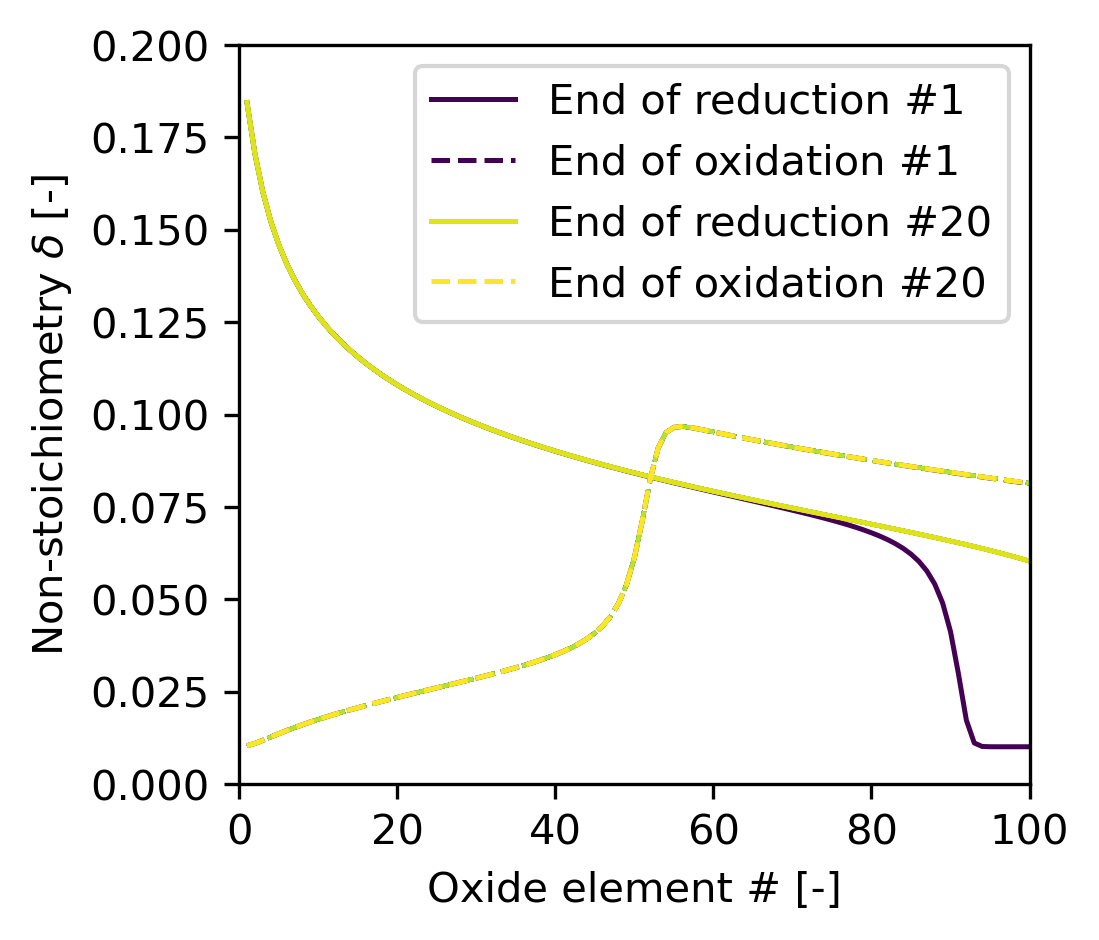
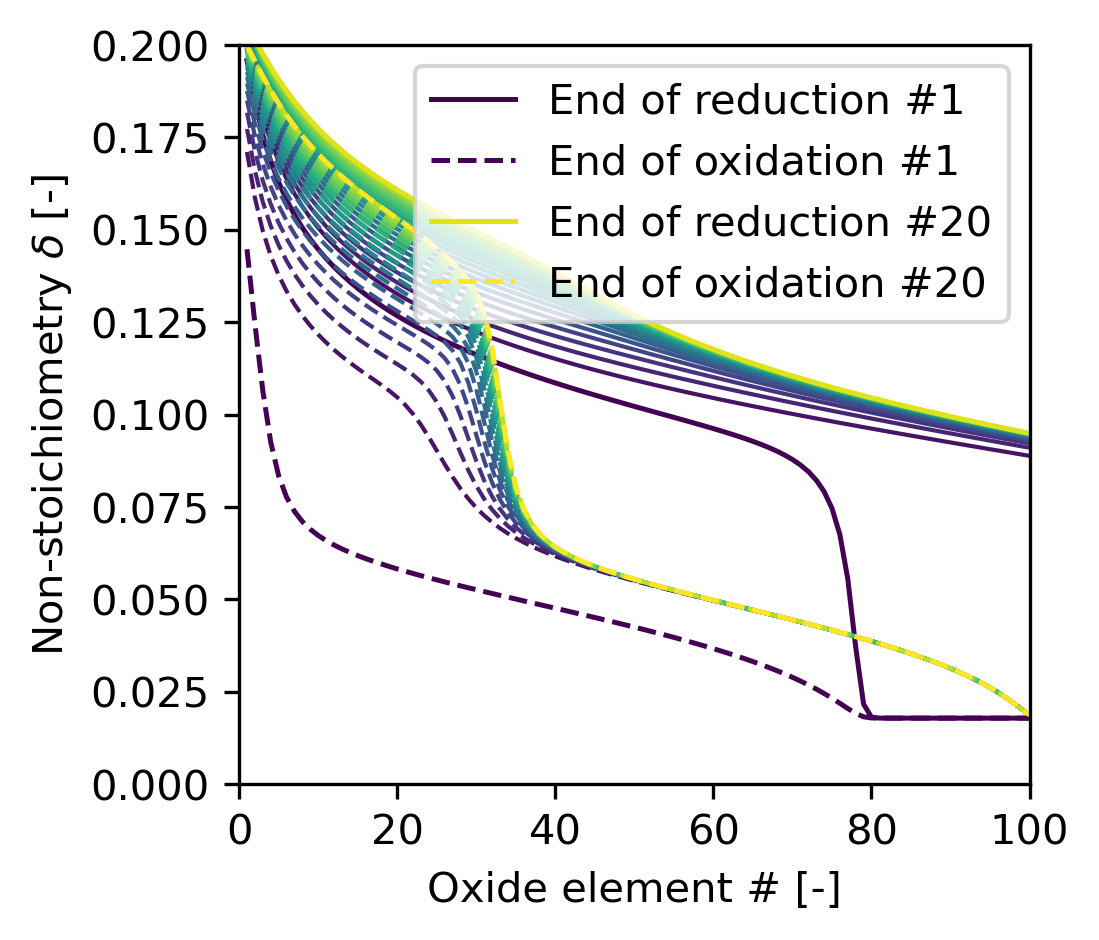
01/11/26

diff --git a/model_testing/mass_balance_test.py b/model_testing/mass_balance_test.py
@@ -18,13 +18,13 @@ from functions.mass_balance import calculate_mass_balance
 from functions.main import simulate_cycle
 
 """
-This script runs a countercurrent chemical looping model to estimate thermodynamic limits.
+This script runs an alternating countercurrent chemical looping model to estimate thermodynamic limits.
 It simulates multiple redox cycles and visualizes the evolution of non-stoichiometry (delta),
 reactor conversions, and oxygen mass balances.
 """
 
 # === Set material from options - "CeO2", "CeZr05", "CeZr15", "CeZr20", "LSF"
-material = "CeZr15"
+material = "CeZr20"
 
 # === Define process conditions
 T = 1023  # Temperature in Kelvin
@@ -35,8 +35,7 @@ cycles = 20  # Number of redox cycles
 x_CO2_0 = 0.998  # Initial CO2 mole fraction
 x_H2O_0 = 0.005  # Initial H2O mole fraction
 gas_mesh, oxide_mesh = 100, 100 # Discretization
-left_flow_red=False
-left_flow_ox=True
+flow_sequence = ((False, True), (True, False))
 
 # === Initialize storage for plotting variables
 delta_red_end = []
@@ -54,6 +53,7 @@ first_cycle = True
 # === Run simulation for defined number of cycles
 for cycle in range(cycles):
     tic = time.perf_counter()
+    left_flow_red, left_flow_ox = flow_sequence[cycle % len(flow_sequence)]
     
     # Run one redox cycle (reduction followed by oxidation)
     simulation = simulate_cycle(
@@ -143,7 +143,7 @@ ax.plot(x_space, delta_ox_end[-1], ls='--', lw=1.2,  label='End of oxidation #20
 ax.set_xlim(0,100)
 ax.set_ylim(0,0.2)
 plt.legend()
-filename = Path("plots") / "mass_balance_20_cycle_delta_profiles.png"
+filename = Path("plots") / "mass_balance_20_cycle_delta_profiles_alternating_countercurrent.png"
 plt.savefig(filename, dpi=300, bbox_inches='tight')
 
 plt.show()
@@ -161,6 +161,6 @@ ax.plot(cycles, X_CO2_values, ls='-', lw=1.3, color = 'black', label='$X_{\mathr
 ax.xaxis.set_major_locator(MaxNLocator(integer=True))
 ax.set_xlim(1,20)
 ax.legend()
-filename = Path("plots") / "mass_balance_20_cycles_O_balance.png"
+filename = Path("plots") / "mass_balance_20_cycles_O_balance_alternating_countercurrent.png"
 plt.savefig(filename, dpi=300, bbox_inches='tight')
 plt.show()
